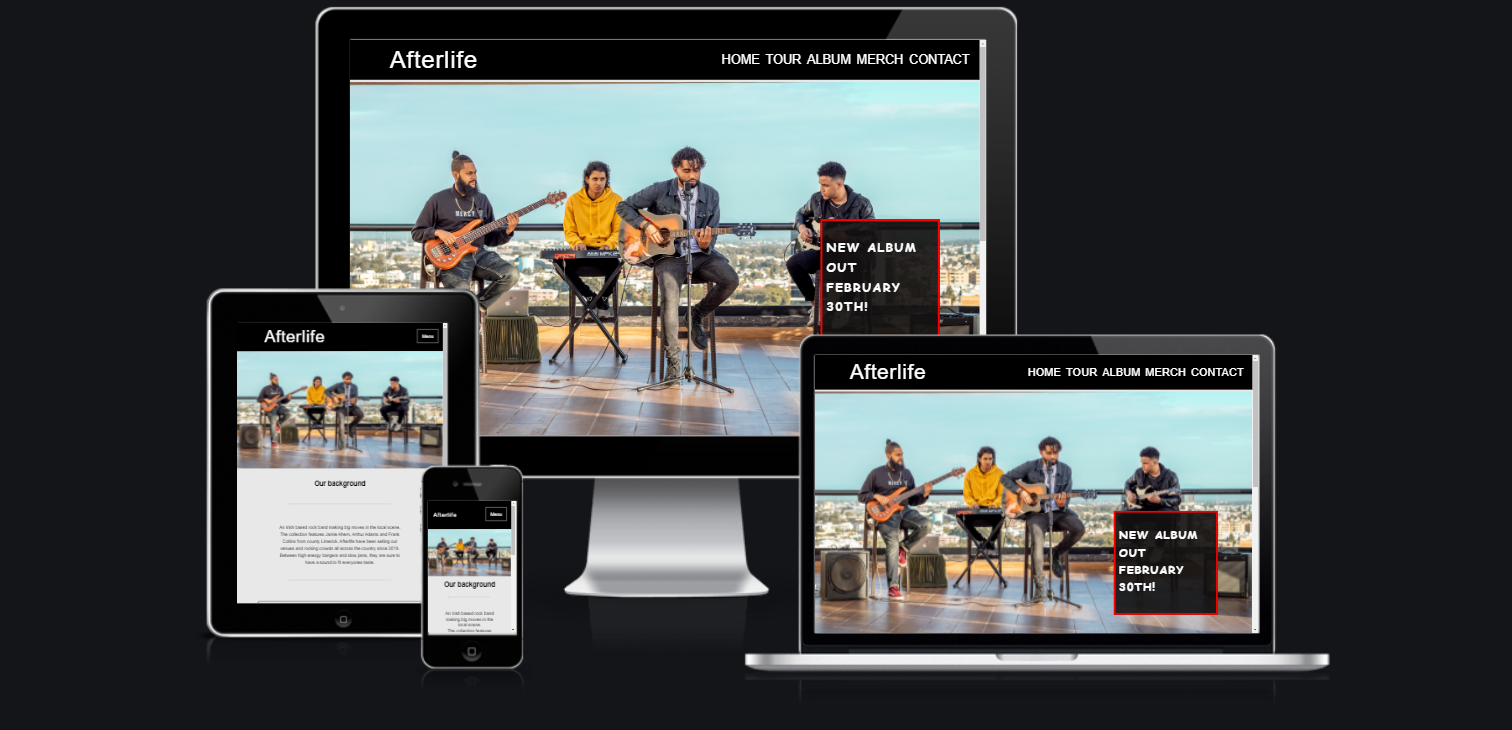
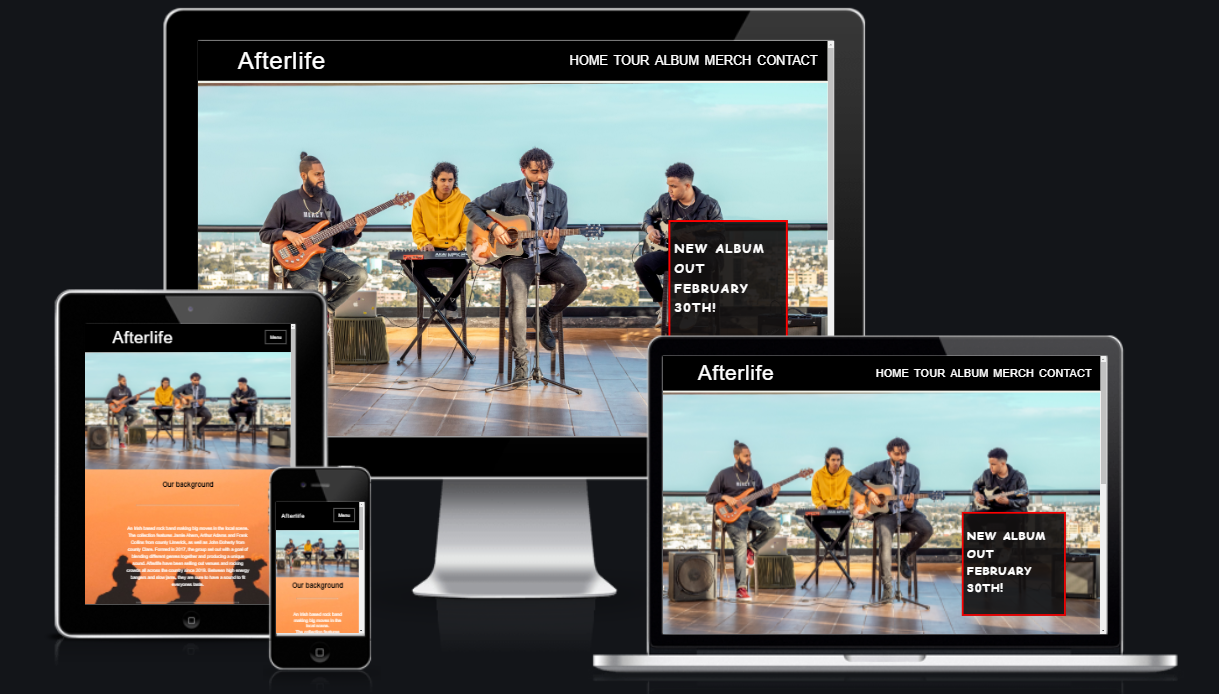
Highlighted page currently

diff --git a/afterlife-tour.html b/afterlife-tour.html
@@ -22,7 +22,7 @@
             <label class="logo">Afterlife</label>
             <ul>
                 <li> <a href="index.html" aria-label="Go to the home page">HOME</a></li>
-                <li> <a href="#tour" aria-label="Go to the top of the page">TOUR</a></li>
+                <li> <a class="current" href="#tour" aria-label="Go to the top of the page">TOUR</a></li>
                 <li> <a href="afterlife-album.html" aria-label="Go to the album page">ALBUM</a></li>
                 <li> <a href="afterlife-merch.html" aria-label="Go to the merchandise page">MERCH</a></li>
                 <li> <a href="afterlife-contact.html" aria-label="Go to the contact page">CONTACT</a></li>
@@ -34,7 +34,6 @@
                 </button>
                 <div class="dropdown-content">
                     <a href="index.html" aria-label="Go to the home page">HOME</a>
-                    <a href="#tour" aria-label="Go to the top of the page">TOUR</a>
                     <a href="afterlife-album.html" aria-label="Go to the album page">ALBUM</a>
                     <a href="afterlife-merch.html" aria-label="Go to the merchandise page">MERCH</a>
                     <a href="afterlife-contact.html" aria-label="Go to the contact page">CONTACT</a>

diff --git a/afterlife-album.html b/afterlife-album.html
@@ -21,7 +21,7 @@
             <ul>
                 <li> <a href="index.html" aria-label="Go to the home page">HOME</a></li>
                 <li> <a href="afterlife-tour.html" aria-label="Go to the tour page">TOUR</a></li>
-                <li> <a href="#album" aria-label="Go to the top of the page">ALBUM</a></li>
+                <li> <a class="current" href="#album" aria-label="Go to the top of the page">ALBUM</a></li>
                 <li> <a href="afterlife-merch.html" aria-label="Go to the merchandise page">MERCH</a></li>
                 <li><a href="afterlife-contact.html" aria-label="Go to the contact page">CONTACT</a></li>
             </ul>
@@ -33,7 +33,6 @@
                 <div class="dropdown-content">
                     <a href="index.html" aria-label="Go to the home page">HOME</a>
                     <a href="afterlife-tour.html" aria-label="Go to the tour page">TOUR</a>
-                    <a href="#album" aria-label="Go to the top of the page">ALBUM</a>
                     <a href="afterlife-merch.html" aria-label="Go to the merchandise page">MERCH</a>
                     <a href="afterlife-contact.html" aria-label="Go to the contact page">CONTACT</a>
                 </div>

diff --git a/afterlife-merch.html b/afterlife-merch.html
@@ -23,7 +23,7 @@
                 <li> <a href="index.html" aria-label="Go to the home page">HOME</a></li>
                 <li> <a href="afterlife-tour.html" aria-label="Go to the tour page">TOUR</a></li>
                 <li> <a href="afterlife-album.html" aria-label="Go to the album page">ALBUM</a></li>
-                <li> <a href="#merch" aria-label="Go to the top of the page">MERCH</a></li>
+                <li> <a class="current" href="#merch" aria-label="Go to the top of the page">MERCH</a></li>
                 <li><a href="afterlife-contact.html" aria-label="Go to the contact page">CONTACT</a></li>
             </ul>
             <div class="dropdown">
@@ -35,7 +35,6 @@
                     <a href="index.html" aria-label="Go to the home page">HOME</a>
                     <a href="afterlife-tour.html" aria-label="Go to the tour page">TOUR</a>
                     <a href="afterlife-album.html" aria-label="Go to the album page">ALBUM</a>
-                    <a href="#merch" aria-label="Go to the top of the page">MERCH</a>
                     <a href="afterlife-contact.html" aria-label="Go to the contact page">CONTACT</a>
                 </div>
             </div>

diff --git a/index.html b/index.html
@@ -20,7 +20,7 @@
         <nav class="navbar">
             <label class="logo">Afterlife</label>
             <ul>
-                <li> <a href="#home" aria-label="Go to the top of the page">HOME</a></li>
+                <li> <a class="current" href="#home" aria-label="Go to the top of the page">HOME</a></li>
                 <li> <a href="afterlife-tour.html" aria-label="Go to the tour page">TOUR</a></li>
                 <li> <a href="afterlife-album.html" aria-label="Go to the album page">ALBUM</a></li>
                 <li> <a href="afterlife-merch.html" aria-label="Go to the merchandise page">MERCH</a></li>
@@ -31,7 +31,6 @@
                     Menu
                 </button>
                 <div class="dropdown-content">
-                    <a href="#home" aria-label="Go to the top of the page">HOME</a>
                     <a href="afterlife-tour.html" aria-label="Go to the tour page">TOUR</a>
                     <a href="afterlife-album.html" aria-label="Go to the album page">ALBUM</a>
                     <a href="afterlife-merch.html" aria-label="Go to the merchandise page">MERCH</a>

diff --git a/afterlife-contact.html b/afterlife-contact.html
@@ -24,7 +24,7 @@
                 <li> <a href="afterlife-tour.html" aria-label="Go to the tour page">TOUR</a></li>
                 <li> <a href="afterlife-album.html" aria-label="Go to the album page">ALBUM</a></li>
                 <li> <a href="afterlife-merch.html" aria-label="Go to the merchandise page">MERCH</a></li>
-                <li> <a href="#contact" aria-label="Go to the top of the page">CONTACT</a></li>
+                <li> <a class="current" href="#contact" aria-label="Go to the top of the page">CONTACT</a></li>
             </ul>
             <div class="dropdown">
                 <button class="dropbtn">
@@ -35,7 +35,6 @@
                     <a href="afterlife-tour.html" aria-label="Go to the tour page">TOUR</a>
                     <a href="afterlife-album.html" aria-label="Go to the album page">ALBUM</a>
                     <a href="afterlife-merch.html" aria-label="Go to the merchandise page">MERCH</a>
-                    <a href="#contact" aria-label="Go to the top of the page">CONTACT</a>
                 </div>
             </div>
         </nav>

diff --git a/css/style.css b/css/style.css
@@ -1,6 +1,6 @@
 body {
 font-family: 'Nanum Gothic', sans-serif;
-background-color: #f1f3ea;
+background-color: #ffffff;
 line-height: 1.6;
 }
 
@@ -20,6 +20,10 @@ top:0;
 width: 100%;
 position: sticky;
 z-index: 1;
+}
+
+.current {
+    background-color: grey;
 }
 
 
